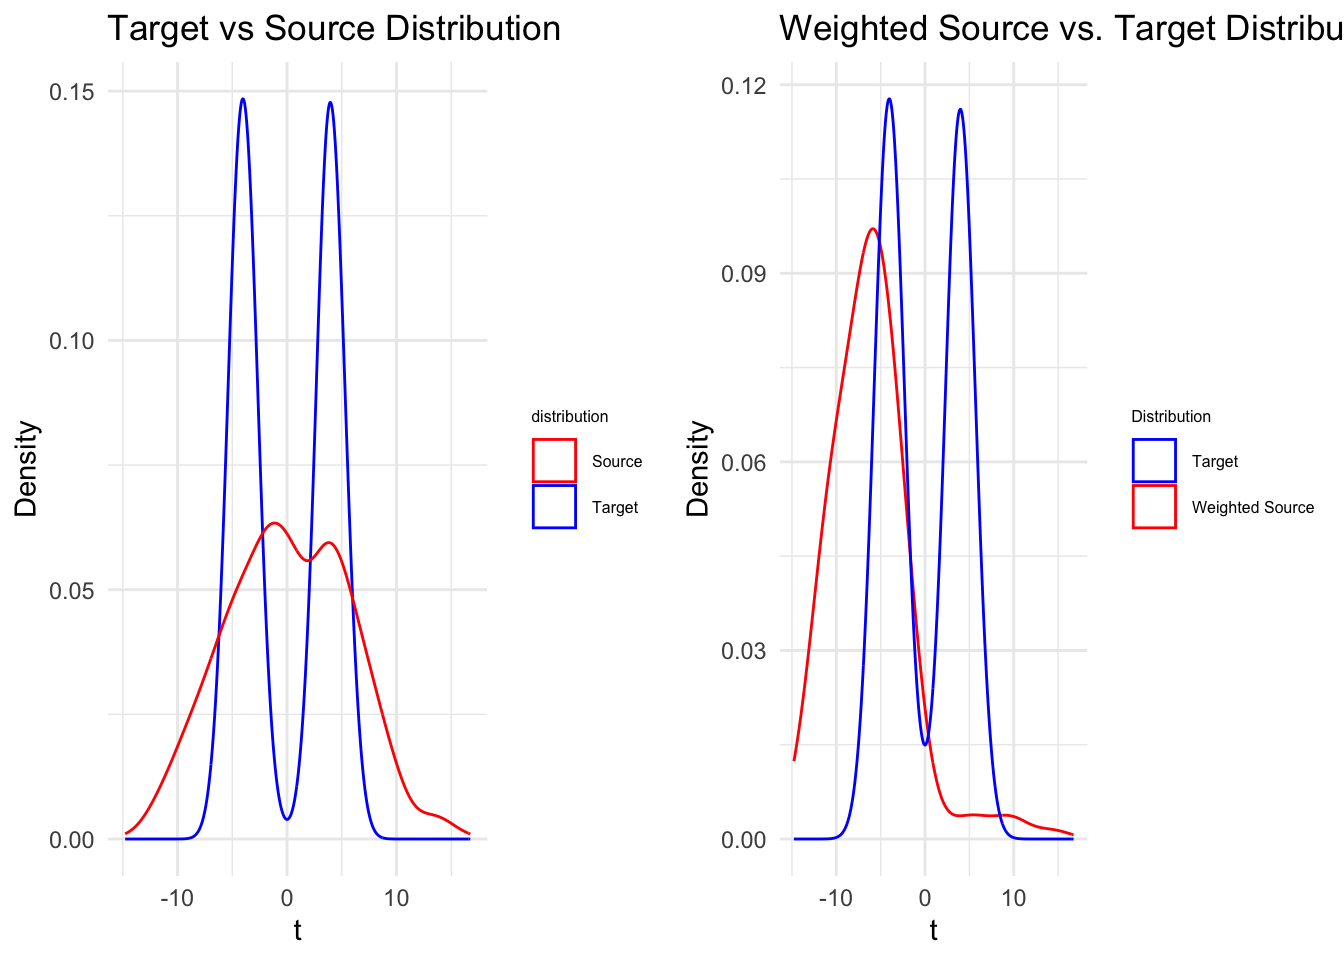
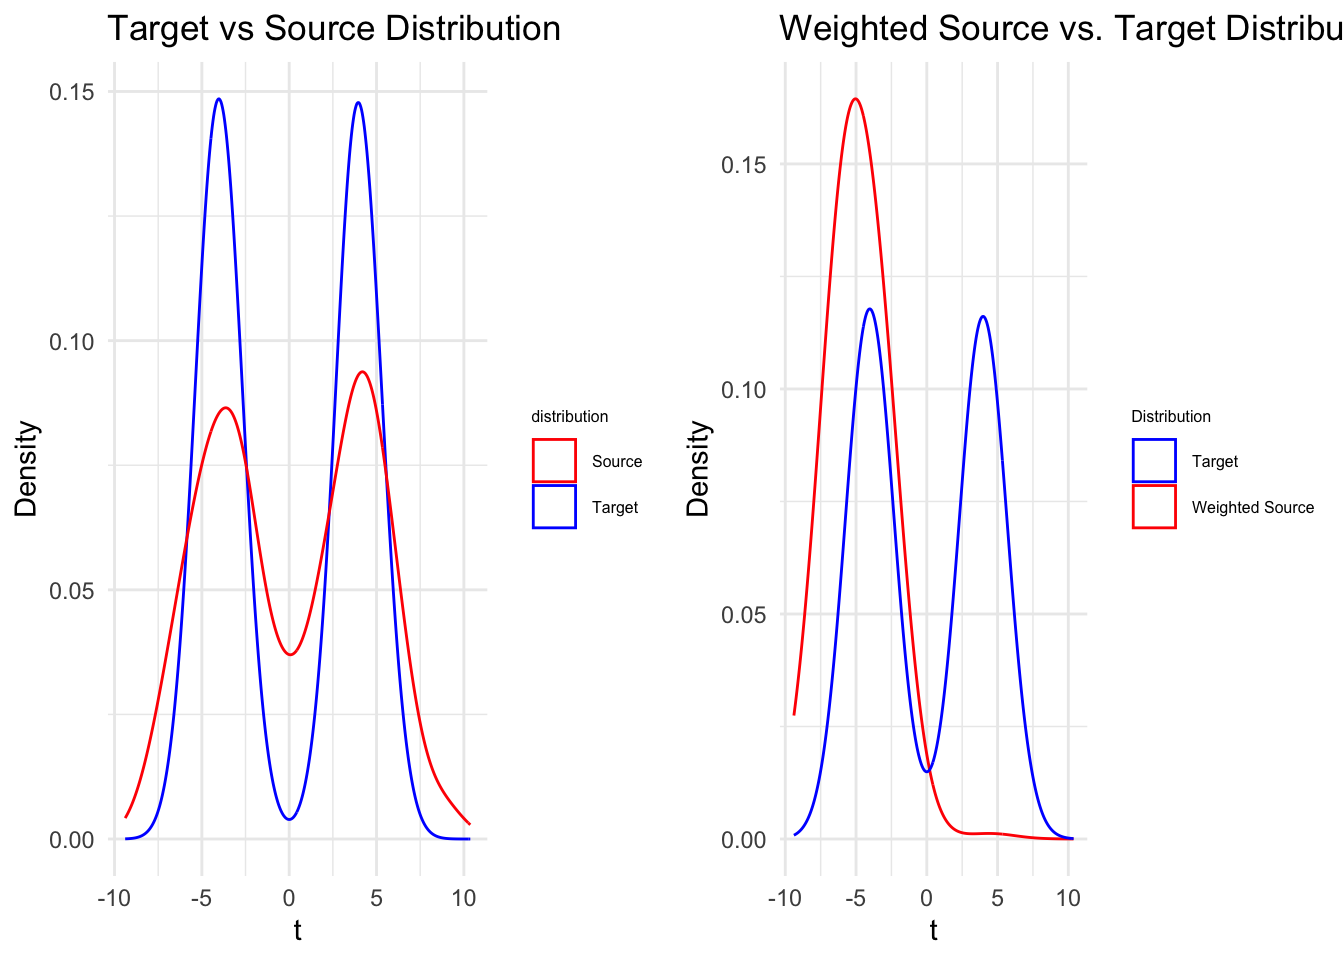
change distribution of source - kernel mean matching

diff --git a/kernel_mean_matching.html b/kernel_mean_matching.html
@@ -343,6 +343,9 @@ div.tocify {
     <li>
       <a href="kernel_mean_matching.html">Kernel Mean Matching</a>
     </li>
+    <li>
+      <a href="discriminative_learning.html">Discriminative Learning</a>
+    </li>
   </ul>
 </li>
 <li>
@@ -454,7 +457,7 @@ mix_2_gaussian &lt;- function(n, means, sds) {
 }
 
 # Generate source and target t values
-source_t &lt;- mix_2_gaussian(n_source, c(-4, 4), c(4, 4))  # Higher variance
+source_t &lt;- mix_2_gaussian(n_source, c(-4, 4), c(2, 2))  # Higher variance
 target_t &lt;- mix_2_gaussian(n_target, c(-4, 4), c(1, 1))  # Lower variance
 
 # Embed t into D dimensions
@@ -603,7 +606,7 @@ w_opt[w_opt &lt; 1e-12] &lt;- 0
 
 # Verify constraints
 cat(&quot;Sum of weights:&quot;, sum(w_opt), &quot;\n&quot;)  # Should be ~1</code></pre>
-<pre><code>## Sum of weights: 11.0475</code></pre>
+<pre><code>## Sum of weights: 14.00011</code></pre>
 <pre class="r"><code>cat(&quot;All weights &gt;= 0:&quot;, all(w_opt &gt;= 0), &quot;\n&quot;)  # Should be TRUE</code></pre>
 <pre><code>## All weights &gt;= 0: TRUE</code></pre>
 <pre class="r"><code>cat(&quot;All weights &lt;= B:&quot;, all(w_opt &lt;= B), &quot;\n&quot;)  # Should be TRUE</code></pre>
@@ -731,10 +734,10 @@ mmd2_val &lt;- compute_mmd2_weighted(
 )
 
 cat(&quot;MMD^2 between weighted source &amp; target = &quot;, mmd2_val, &quot;\n&quot;)</code></pre>
-<pre><code>## MMD^2 between weighted source &amp; target =  6.394885e-14</code></pre>
+<pre><code>## MMD^2 between weighted source &amp; target =  7.81597e-14</code></pre>
 <pre class="r"><code>cat(&quot;MMD = &quot;, sqrt(mmd2_val), &quot;\n&quot;)</code></pre>
-<pre><code>## MMD =  2.528811e-07</code></pre>
-<p>Since <span class="math inline">\(MMD^2\)</span>(=6.3948846^{-14}) is
+<pre><code>## MMD =  2.795706e-07</code></pre>
+<p>Since <span class="math inline">\(MMD^2\)</span>(=7.8159701^{-14}) is
 close to 0, we can say the weighted source and target distributions have
 very similar mean embeddings under the linear kernel.</p>
 </div>
